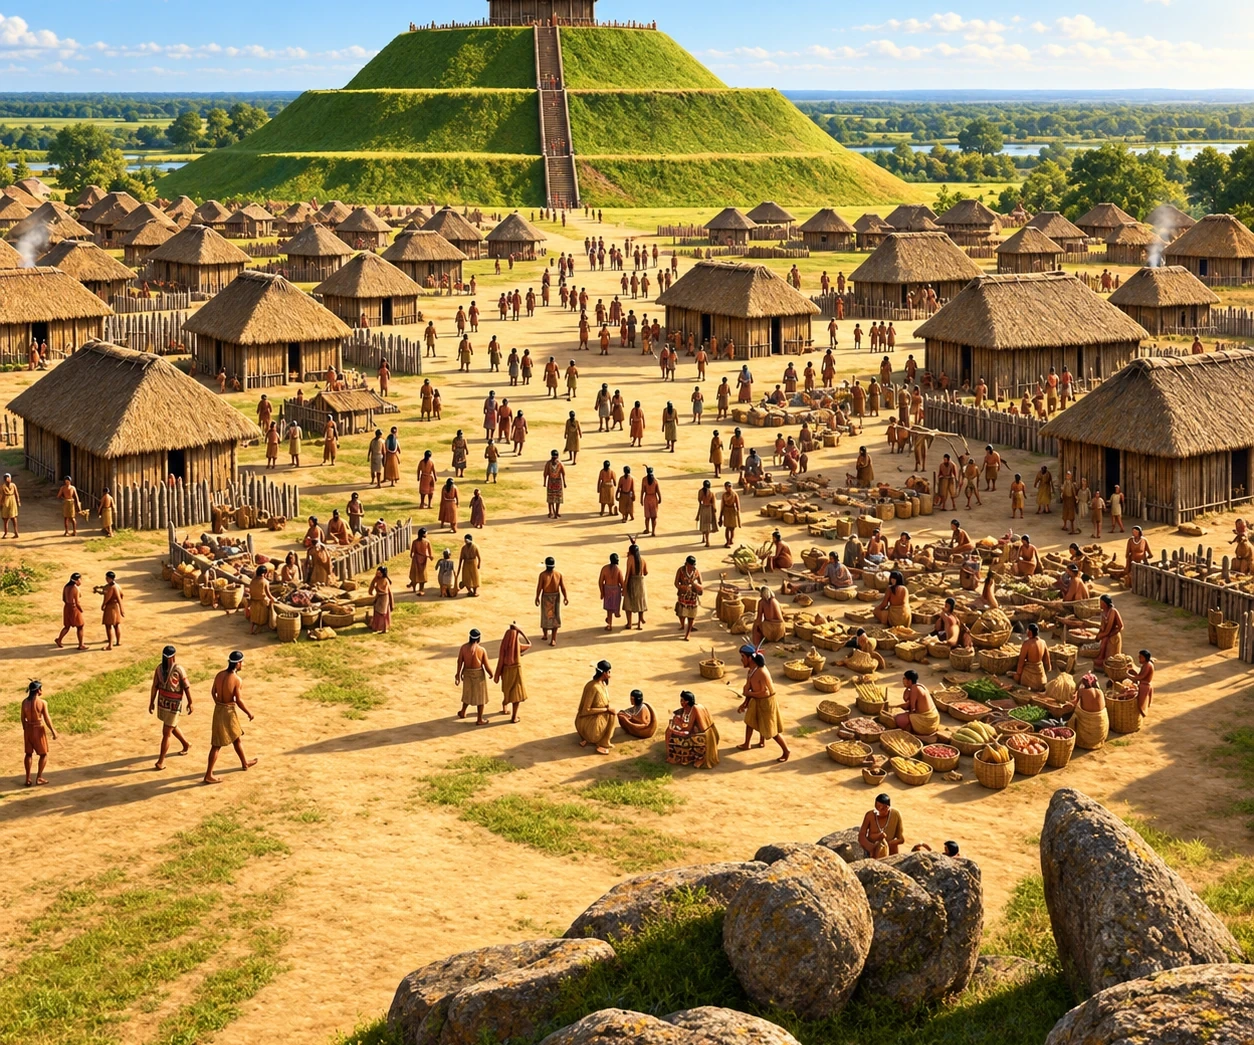
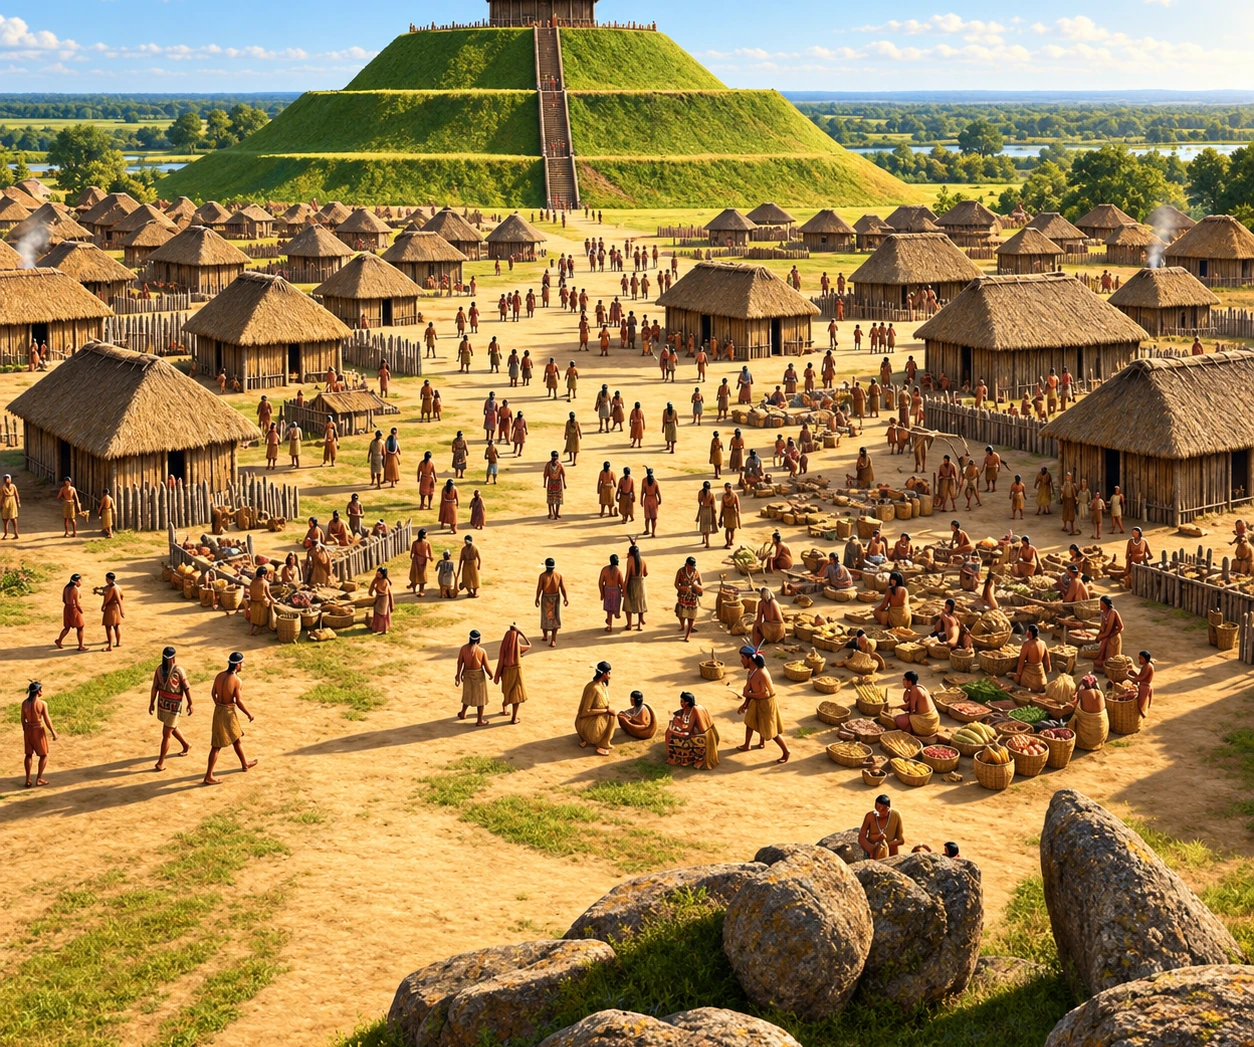
ratio fix

diff --git a/7/FirstAmericans/Mississippians/mississippians.css b/7/FirstAmericans/Mississippians/mississippians.css
@@ -85,7 +85,7 @@ main{max-width:var(--max);margin:0 auto;padding:108px 1rem 4rem}
 
 .locationFlow{display:grid;grid-template-columns:1fr auto 1fr auto 1fr;gap:.55rem;align-items:center;margin-top:.9rem}.locationFlow>div:not(.flowArrow){min-height:126px;padding:.85rem;border-radius:14px;background:#f7f0ca;border:1px solid rgba(122,90,54,.15)}.locationFlow>div>span{display:grid;place-items:center;width:32px;height:32px;border-radius:50%;background:var(--leaf);color:white;font-weight:1000;margin-bottom:.35rem}.locationFlow b{display:block;color:var(--leaf-dark)}.locationFlow small{display:block;color:#5e675e;line-height:1.4;margin-top:.2rem}.flowArrow{font-size:1.8rem;color:var(--soil);font-weight:1000}
 
-.cityFeatureGrid{display:grid;grid-template-columns:repeat(4,1fr);gap:.7rem;margin-top:.85rem}.cityFeatureGrid article{padding:.65rem .65rem .8rem;border-radius:14px;background:#fbf7e6;border:1px solid var(--line);text-align:center;overflow:hidden}.cityFeatureGrid h3{color:var(--leaf-dark);margin:.35rem 0 .18rem}.cityFeatureGrid p{margin:.12rem 0 0}.cityFeatureFigure{margin:0}.cityFeatureFigure .imageButton{width:100%;display:block;border-radius:10px;background:#edf0df}.cityFeatureFigure .imageButton img{width:100%;height:auto;aspect-ratio:6/5;object-fit:cover;border:0;border-radius:10px;background:#edf0df}.cityFeatureFigure figcaption{min-height:1.85rem;padding:.3rem .15rem 0;font-size:.7rem;line-height:1.25;color:#667066}.cityFeatureFigure figcaption a{color:var(--leaf-dark);font-weight:800;text-decoration:underline;text-underline-offset:2px}.woodhengeFigure .imageButton img{background:#dff3ef}.cityFeatureFigure .zoomHint{display:none}.cityFeatureIcon{display:block;position:relative;width:54px;height:42px;margin:.25rem auto .2rem}.cityFeatureIcon.moundSymbol{background:linear-gradient(180deg,#6f7d3e,#4e6136);clip-path:polygon(18% 0,82% 0,100% 100%,0 100%);border-top:6px solid #8fa15d}.cityFeatureIcon.plazaSymbol{border:3px solid var(--leaf);background:repeating-linear-gradient(90deg,rgba(226,195,78,.24) 0 7px,rgba(255,255,255,.2) 7px 14px);border-radius:6px}.cityFeatureIcon.wallSymbol{background:repeating-linear-gradient(90deg,#6a482d 0 6px,#8f6438 6px 10px);border-bottom:6px solid #51341f}.cityFeatureIcon.sunSymbol{display:grid;place-items:center;font-size:2.5rem;line-height:1;color:var(--corn);text-shadow:0 2px 0 rgba(122,90,54,.20)}
+.cityFeatureGrid{display:grid;grid-template-columns:repeat(4,1fr);gap:.65rem;margin-top:.75rem}.cityFeatureGrid article{padding:.55rem .55rem .72rem;border-radius:14px;background:#fbf7e6;border:1px solid var(--line);text-align:center;overflow:hidden}.cityFeatureGrid h3{color:var(--leaf-dark);margin:.28rem 0 .15rem}.cityFeatureGrid p{margin:.08rem 0 0}.cityFeatureFigure{margin:0}.cityFeatureFigure img{display:block;width:100%;height:auto;min-height:0;border:0;border-radius:9px;background:transparent}.cityFeatureFigure figcaption{min-height:1.65rem;padding:.25rem .1rem 0;font-size:.69rem;line-height:1.2;color:#667066}.cityFeatureFigure figcaption a{color:var(--leaf-dark);font-weight:800;text-decoration:underline;text-underline-offset:2px}.cityFeatureIcon{display:block;position:relative;width:50px;height:38px;margin:.14rem auto .12rem}.cityFeatureIcon.moundSymbol{background:linear-gradient(180deg,#6f7d3e,#4e6136);clip-path:polygon(18% 0,82% 0,100% 100%,0 100%);border-top:6px solid #8fa15d}.cityFeatureIcon.plazaSymbol{border:3px solid var(--leaf);background:repeating-linear-gradient(90deg,rgba(226,195,78,.24) 0 7px,rgba(255,255,255,.2) 7px 14px);border-radius:6px}.cityFeatureIcon.wallSymbol{background:repeating-linear-gradient(90deg,#6a482d 0 6px,#8f6438 6px 10px);border-bottom:6px solid #51341f}.cityFeatureIcon.sunSymbol{display:grid;place-items:center;font-size:2.35rem;line-height:1;color:var(--corn);text-shadow:0 2px 0 rgba(122,90,54,.20)}
 
 .monksFeature{display:grid;grid-template-columns:1fr .92fr;gap:1.2rem;align-items:start;margin:1rem 0;padding:1.4rem;border-radius:20px;background:linear-gradient(135deg,#f4e285,#fbf6d7);border:2px solid rgba(49,91,55,.24);box-shadow:var(--shadow)}.monksText p{max-width:64ch}.monksFigure{margin:0;padding:.45rem;border-radius:16px;background:rgba(255,253,244,.76);border:1px solid rgba(49,91,55,.18)}.monksFigure .imageButton img{width:100%;height:auto;min-height:0;object-fit:contain;border-radius:12px;border:2px solid rgba(49,91,55,.16);background:#fffef6}.monksFigure figcaption{font-size:.82rem;line-height:1.45;color:#556255;padding:.55rem .25rem .1rem}
 

diff --git a/7/FirstAmericans/Mississippians/cahokia.html b/7/FirstAmericans/Mississippians/cahokia.html
@@ -69,9 +69,7 @@
       <div class="cityFeatureGrid">
         <article>
           <figure class="cityFeatureFigure">
-            <button class="imageButton zoomable" type="button" data-zoom-src="images/monks-mound-today.webp" aria-label="Enlarge the present-day photograph of Monks Mound">
-              <img src="images/monks-mound-today.webp" alt="Present-day photograph of Monks Mound at Cahokia" />
-              </button>
+            <img src="images/monks-mound-today.webp" alt="Present-day photograph of Monks Mound at Cahokia" />
             <figcaption>Monk's Mound Today</figcaption>
           </figure>
           <span class="cityFeatureIcon moundSymbol" aria-hidden="true"></span>
@@ -80,9 +78,7 @@
         </article>
         <article>
           <figure class="cityFeatureFigure">
-            <button class="imageButton zoomable" type="button" data-zoom-src="images/grand-plaza.webp" aria-label="Enlarge the reconstruction of Cahokia's Grand Plaza">
-              <img src="images/grand-plaza.webp" alt="Reconstruction of Cahokia's Grand Plaza with Monks Mound rising behind the settlement" />
-            </button>
+            <img src="images/grand-plaza.webp" alt="Reconstruction of Cahokia's Grand Plaza with Monks Mound rising behind the settlement" />
             <figcaption>Reconstruction of the Grand Plaza</figcaption>
           </figure>
           <span class="cityFeatureIcon plazaSymbol" aria-hidden="true"></span>
@@ -91,9 +87,7 @@
         </article>
         <article>
           <figure class="cityFeatureFigure">
-            <button class="imageButton zoomable" type="button" data-zoom-src="images/stockade-construction.webp" aria-label="Enlarge the illustration of Cahokia stockade construction">
-              <img src="images/stockade-construction.webp" alt="Illustration showing construction of a tall wooden stockade at Cahokia" />
-            </button>
+            <img src="images/stockade-construction.webp" alt="Illustration showing construction of a tall wooden stockade at Cahokia" />
             <figcaption>Stockade construction scene</figcaption>
           </figure>
           <span class="cityFeatureIcon wallSymbol" aria-hidden="true"></span>
@@ -102,9 +96,7 @@
         </article>
         <article>
           <figure class="cityFeatureFigure woodhengeFigure">
-            <button class="imageButton zoomable" type="button" data-zoom-src="images/woodhenge.gif" aria-label="Enlarge the animated Woodhenge solstice diagram">
-              <img src="images/woodhenge.gif" alt="Animated diagram showing Woodhenge aligned with the summer solstice and Monks Mound" />
-              </button>
+            <img src="images/woodhenge.gif" alt="Animated diagram showing Woodhenge aligned with the summer solstice and Monks Mound" />
             <figcaption>Source: <a href="https://orias.berkeley.edu/resources-teachers/societies-americas/cahokia" target="_blank" rel="noopener">ORIAS, UC Berkeley</a></figcaption>
           </figure>
           <span class="cityFeatureIcon sunSymbol" aria-hidden="true">☀</span>
